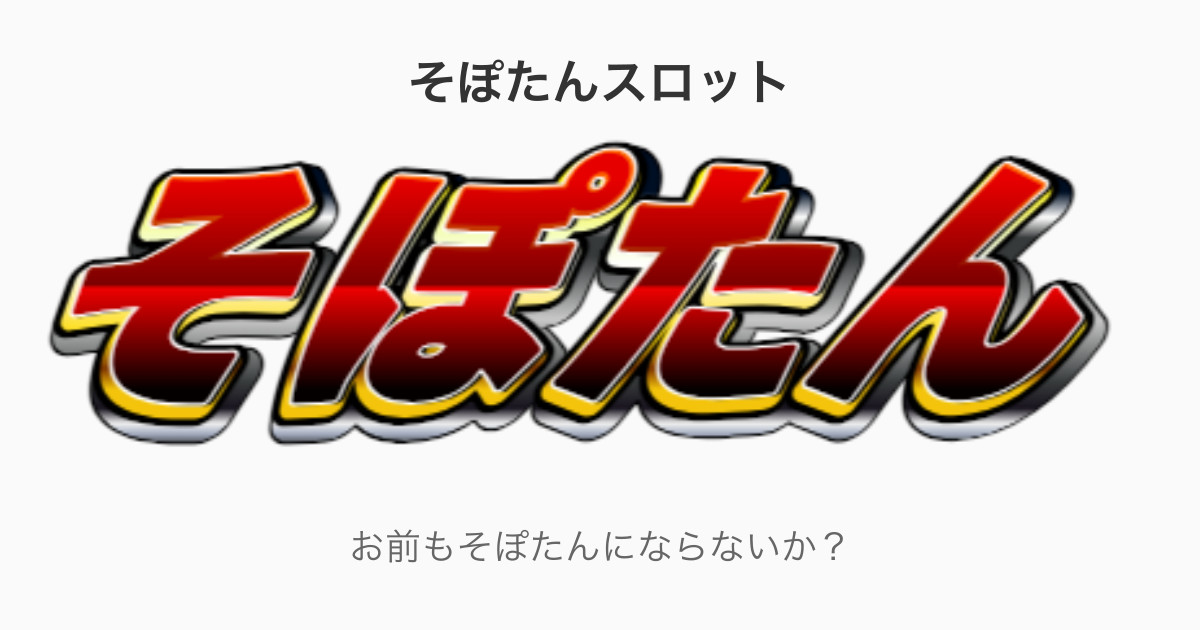
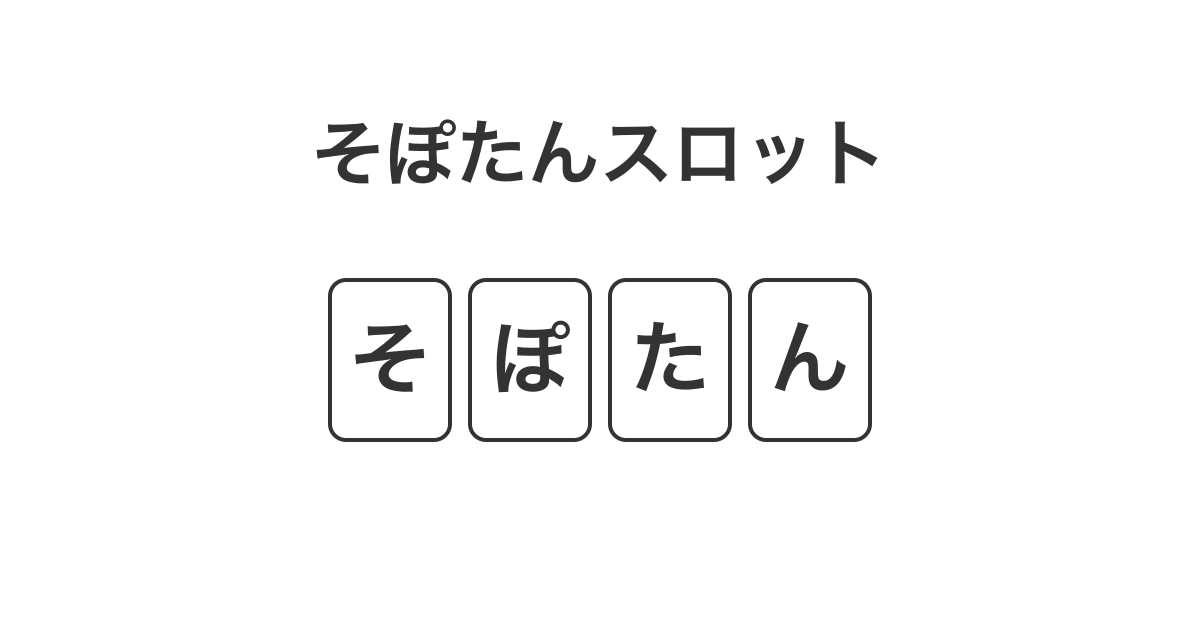
fix:ogp画像を変更

diff --git a/generate-ogp.js b/generate-ogp.js
@@ -71,32 +71,50 @@ async function generateSopotanOGP(sopotanImg) {
   return canvas.toBuffer('image/png');
 }
 
-// index.html用のOGP画像を生成
-async function generateIndexOGP(sopotanImg) {
+// index.html用のOGP画像を生成（サイトのスクショ風）
+function generateIndexOGP() {
   const canvas = createCanvas(WIDTH, HEIGHT);
   const ctx = canvas.getContext('2d');
 
-  // 背景
-  ctx.fillStyle = '#fafafa';
+  // 背景（白）
+  ctx.fillStyle = '#ffffff';
   ctx.fillRect(0, 0, WIDTH, HEIGHT);
 
   // タイトル
   ctx.fillStyle = '#333';
-  ctx.font = 'bold 48px sans-serif';
+  ctx.font = 'bold 72px sans-serif';
   ctx.textAlign = 'center';
-  ctx.fillText('そぽたんスロット', WIDTH / 2, 100);
+  ctx.fillText('そぽたんスロット', WIDTH / 2, 180);
 
-  // sopotan.png画像を中央に配置（大きめに表示）
-  const imgHeight = 350;
-  const imgWidth = (sopotanImg.width / sopotanImg.height) * imgHeight;
-  const imgX = (WIDTH - imgWidth) / 2;
-  const imgY = 130;
-  ctx.drawImage(sopotanImg, imgX, imgY, imgWidth, imgHeight);
+  // スロットリール（4つのボックス）
+  const reelWidth = 120;
+  const reelHeight = 160;
+  const reelGap = 20;
+  const totalWidth = reelWidth * 4 + reelGap * 3;
+  const startX = (WIDTH - totalWidth) / 2;
+  const reelY = 280;
 
-  // サブテキスト
-  ctx.fillStyle = '#666';
-  ctx.font = '36px sans-serif';
-  ctx.fillText('お前もそぽたんにならないか？', WIDTH / 2, 560);
+  const chars = ['そ', 'ぽ', 'た', 'ん'];
+
+  for (let i = 0; i < 4; i++) {
+    const x = startX + i * (reelWidth + reelGap);
+
+    // リールの背景
+    ctx.fillStyle = '#fff';
+    ctx.fillRect(x, reelY, reelWidth, reelHeight);
+
+    // リールの枠線
+    ctx.strokeStyle = '#333';
+    ctx.lineWidth = 4;
+    ctx.beginPath();
+    ctx.roundRect(x, reelY, reelWidth, reelHeight, 16);
+    ctx.stroke();
+
+    // 文字
+    ctx.fillStyle = '#333';
+    ctx.font = 'bold 80px sans-serif';
+    ctx.fillText(chars[i], x + reelWidth / 2, reelY + reelHeight / 2 + 28);
+  }
 
   return canvas.toBuffer('image/png');
 }
@@ -113,7 +131,7 @@ async function main() {
   const sopotanImg = await loadImage(SOPOTAN_IMAGE);
 
   // index.html用のOGP画像を生成
-  const indexOgpBuffer = await generateIndexOGP(sopotanImg);
+  const indexOgpBuffer = generateIndexOGP();
   fs.writeFileSync(path.join(OUTPUT_DIR, 'ogp.png'), indexOgpBuffer);
   console.log('index用OGP画像を生成しました: ogp.png');
 
